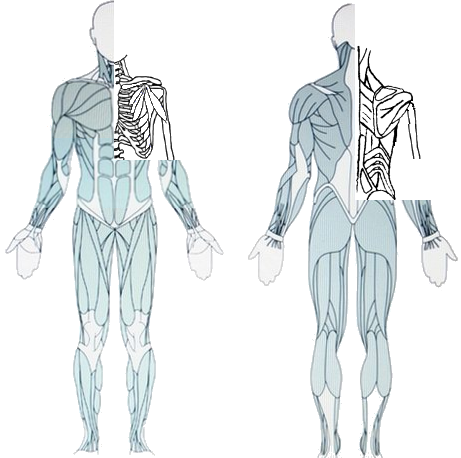
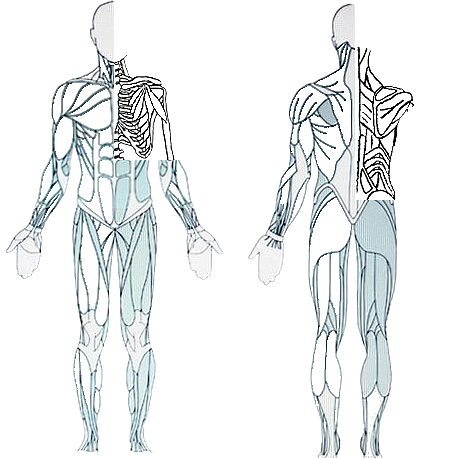
-update  -improve muscleman image quality  -improved css for muscles and exercise text links  -order exercises by name  -changes muscle_pics base strength  -renamed camelcase function visibleExercises to visible_exercises  -replace multicall to db with collection of ids in single call (function x_ex
-added
 -

-fixed
 -replaced hex_to_rgb with rgba_to_list
 -old find_all_by with where().all

-removed
 -wired event listener from old code

diff --git a/app/assets/stylesheets/application.css b/app/assets/stylesheets/application.css
@@ -37,7 +37,7 @@ img {
 
 #muscle_text_hover_div {
     position: absolute;
-    width: 230px;
+    width: 296px;
 }
 
 #body_part_text_selected_div {
@@ -105,6 +105,13 @@ a:active {
     position: fixed;
     top: 120px;
     left: 40px;
+}
+h3{
+    padding-top: 0 !important;
+    margin-bottom: 5px;
+    border-bottom: 1px solid red;
+    color: #017;
+    font-size: 15px;
 }
 
 .multi_pic, #hover {
@@ -201,8 +208,8 @@ a:active {
     min-height: 6px;
     position: absolute;
     top: 0;
-    left: 815px;
-    width: 250px;
+    left: 780px;
+    width: 315px;
     max-height: 620px;
     overflow: auto;
 }
@@ -217,19 +224,42 @@ table {
 }
 
 #outer_container {
-    /*margin: 0 auto;*/
 
+    margin: 0 auto;
     min-height: 725px;
     position: relative;
-
+    width: 100%;
 }
+
+.exercises_text_div{
+    box-sizing: border-box;
+    width: 260px;
+    border-bottom: 1px solid #0000001f;
+    height: 53px;
+    text-align: center;
+    vertical-align: middle;
+    padding: 5px;
+}
+
 
 #container {
     margin: 0 auto;
-    width: 100%;
+    width: 1300px;
     min-height: 700px;
     position: relative;
     top: 15px;
+    min-width: 1300px;
+    max-width: 100%;
+}
+
+#user_trainingsplans_container {
+    margin: 0 auto;
+
+    min-height: 700px;
+    position: relative;
+    top: 15px;
+    min-width: 1300px;
+    max-width: 100%;
 }
 
 #notice {
@@ -448,6 +478,13 @@ li {
 
 .muscle_text_option {
     cursor: pointer;
+    box-sizing: border-box;
+    width: 100%;
+    border-bottom: 1px solid #0000001f;
+    height: 30px;
+    text-align: center;
+    vertical-align: middle;
+    padding: 5px;
 }
 
 #body_area area {

diff --git a/app/assets/javascripts/application.js b/app/assets/javascripts/application.js
@@ -348,10 +348,6 @@ function setExerciseActive(trainingsplanPosition) {
         } else {
             $(exercises[i]).removeClass("active_exercise");
         }
-        exercises[i].addEventListener("click", function () {
-            var current = document.getElementsByClassName("active");
-            current[0].className = current[0].className.replace(" active", "");
-            this.className += " active";
-        });
+
     }
 }

diff --git a/app/helpers/application_helper.rb b/app/helpers/application_helper.rb
@@ -1,37 +1,37 @@
 # Methods added to this helper will be available to all templates in the application.
 module ApplicationHelper
 
-  def muscle_pics(muscles, effect, strength = 3)
+  def muscle_pics(muscles, effect, strength = 2)
     x=[]
     muscles.each do |muscle|
       #x.push(tag(:div, class: "multi_pic #{muscle.clean_name}#{"_#{effect}" unless effect.blank?}", style:"opacity:#{0.25 * strength};position:absolute;"))
-      x << "<div class='multi_pic #{muscle.clean_name}#{"_#{effect}" unless effect.blank?}' style='opacity:#{0.20 * strength};position:absolute;'></div>"
+      x << "<div class='multi_pic #{muscle.clean_name}#{"_#{effect}" unless effect.blank?}' style='opacity:#{0.15 * strength};position:absolute;'></div>"
       #x << image_tag("/assets/muscles/#{muscle.picture_id}_#{muscle.clean_name}#{"_#{effect}" if !effect.blank?}.png", :style=>"opacity:#{0.25*strength}", :id=>"#{muscle.clean_name}_#{effect}", :class=>"multi_pic")
     end
   x.join.html_safe
   end
 
-  def user_muscle_pics(muscles, effect, strength = 3)
+  def user_muscle_pics(muscles, effect, strength = 2)
 
     x=[]
     muscles.each do |muscle|
 
       #x << image_tag("/images/muscles/#{muscle.picture_id}_#{muscle.clean_name}#{"_#{effect}" if !effect.blank?}.png", :class=>"multi_pic2", :style=>"opacity:#{0.25*strength}")
       #x << tag("div", class: "multi_pic2 #{muscle.clean_name}#{"_#{effect}" unless effect.blank?}", style:"opacity:#{0.25 * strength};position:absolute;")
-      x << "<div class='multi_pic2 #{muscle.clean_name}#{"_#{effect}" unless effect.blank?}' style='opacity:#{0.25 * strength};position:absolute;'></div>"
+      x << "<div class='multi_pic2 #{muscle.clean_name}#{"_#{effect}" unless effect.blank?}' style='opacity:#{0.15 * strength};position:absolute;'></div>"
     end
     x.join.html_safe
 
   end
 
-  def user_muscle_pics_trainingsplan_list(muscles, effect, strength = 3)
+  def user_muscle_pics_trainingsplan_list(muscles, effect, strength = 2)
 
     x=[]
     muscles.each do |muscle|
 
       #x << image_tag("/images/muscles/#{muscle.picture_id}_#{muscle.clean_name}#{"_#{effect}" if !effect.blank?}.png", :class=>"multi_pic2", :style=>"opacity:#{0.25*strength}")
       #x << tag("div", class: "multi_pic2 #{muscle.clean_name}#{"_#{effect}" unless effect.blank?}", style:"opacity:#{0.25 * strength};position:absolute;")
-      x << "<div class='multi_pic_minffi2 #{muscle.clean_name}#{"_#{effect}" unless effect.blank?}' style='opacity:#{0.25 * strength};position: absolute;
+      x << "<div class='multi_pic_minffi2 #{muscle.clean_name}#{"_#{effect}" unless effect.blank?}' style='opacity:#{0.15 * strength};position: absolute;
     top: 0;
     left: 0;'></div>"
     end
@@ -73,6 +73,10 @@ module ApplicationHelper
 
     [x,y,z]
 
+  end
+
+  def rgba_to_list(rgba)
+     rgba.split("(")[1].split(")")[0].split(",")
   end
 
   def give_dec(hex)

diff --git a/app/models/exercise.rb b/app/models/exercise.rb
@@ -9,7 +9,7 @@ class Exercise < ApplicationRecord
   has_many :trainingsplans, :through => :exercise_to_trainingsplans
 
   has_one_attached :video
-  scope :visibleExercises, ->  { where(visible: true) }
+  scope :visible_exercises, ->  { where(visible: true) }
 
 
   def primary_muscle_ids
@@ -72,11 +72,11 @@ class Exercise < ApplicationRecord
   end
 
   def self.free_exercise
-    Exercise.find_all_by_exercise_type("free").sort!{|t1,t2|t1.name <=> t2.name}
+    Exercise.where(exercise_type: "free").all.to_a.sort!{|t1,t2|t1.name <=> t2.name}
   end
 
   def self.non_free_exercise
-    Exercise.find_all_by_exercise_type("gerät").sort!{|t1,t2|t1.name <=> t2.name}
+    Exercise.where(exercise_type:"gerät").all.to_a.sort!{|t1,t2|t1.name <=> t2.name}
   end
 
   def self.load_exercises(name)

diff --git a/app/controllers/exercises_controller.rb b/app/controllers/exercises_controller.rb
@@ -6,7 +6,7 @@ class ExercisesController < ApplicationController
   # GET /exercises.json
 
   def index
-    @exercises = @current_user.exercises.where(visible:true) || []
+    @exercises = @current_user.exercises.where(visible:true).order("name asc") || []
       #@exercises = Exercise.where(id:@current_user.id,visible: true).order("id asc").all  || []
 
       #@exercises = Exercise.where(visible: true).order("id asc").all
@@ -39,7 +39,7 @@ class ExercisesController < ApplicationController
   end
 
   def all
-    @exercises = Exercise.visibleExercises
+    @exercises = Exercise.visible_exercises.order("name asc")
     @current_user if logged_in?
     @trainingsplans = @current_user.trainingsplans if @current_user
     @trainingsplan = @trainingsplans.first

diff --git a/app/controllers/main_controller.rb b/app/controllers/main_controller.rb
@@ -10,7 +10,7 @@ class MainController < ApplicationController
     @muscles_selected = []
     @body_parts = BodyPart.all.to_a
     @p_muscles = []#@muscles
-    @exercises = Exercise.where(visible: true).order("id asc").all
+    @exercises = Exercise.where(visible: true).order("name asc").all
     @s_muscles = []
     @a_muscles = []
     # @muscle = @muscles.first
@@ -41,7 +41,7 @@ class MainController < ApplicationController
     @name = params[:name]
     if @name == "Alle"
       @p_muscles = Muscle.all
-      @exercises = Exercise.where(visible: true).order("id asc").all
+      @exercises = Exercise.where(visible: true).order("name asc").all
       @s_muscles = []
       @a_muscles = []
     else

diff --git a/app/models/muscle.rb b/app/models/muscle.rb
@@ -33,7 +33,8 @@ class Muscle < ApplicationRecord
   end
 
   def x_exercises(muscle_type)
-    ExerciseToMuscle.where("muscle_type = ? and muscle_id = ?",muscle_type, self.id ).collect{|x| x.exercise }.to_a.compact#.uniq.sort!{|t1,t2|t1.name <=> t2.name}
+    e= ExerciseToMuscle.where("muscle_type = ? and muscle_id = ?",muscle_type, self.id ).collect{|x| x.exercise_id }.to_a.uniq.compact#.uniq.sort!{|t1,t2|t1.name <=> t2.name}
+    Exercise.where("id in (?)",e).order("name asc")
   end
 
   def sort_by_clean_name

diff --git a/app/models/body_part.rb b/app/models/body_part.rb
@@ -82,8 +82,7 @@ class BodyPart < ApplicationRecord
 
   def x_ercise
     e = ExerciseToMuscle.find_all_by_body_part_id(self.id).collect { |x| x.exercise_id }.to_a.uniq.compact
-    exercisList = Exercise.where("id in (?)",e)
-    exercisList
+    Exercise.where("id in (?)",e).order("name asc")
   end
 
 
